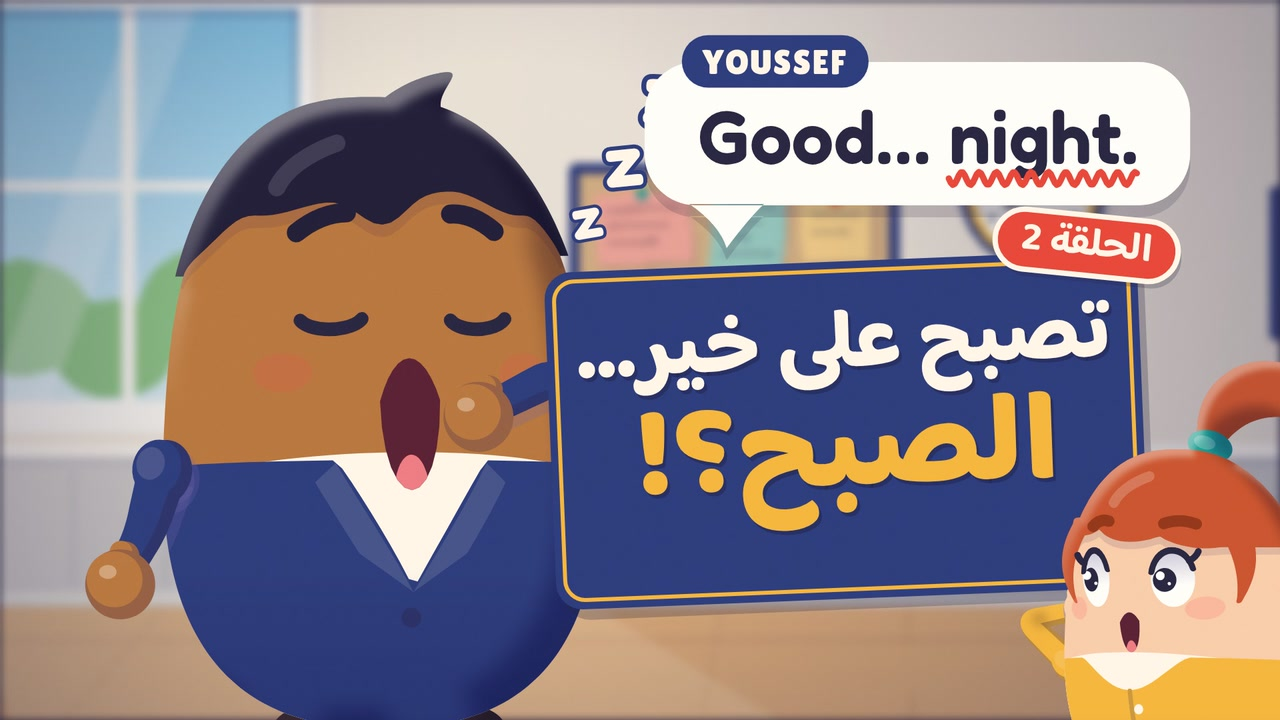
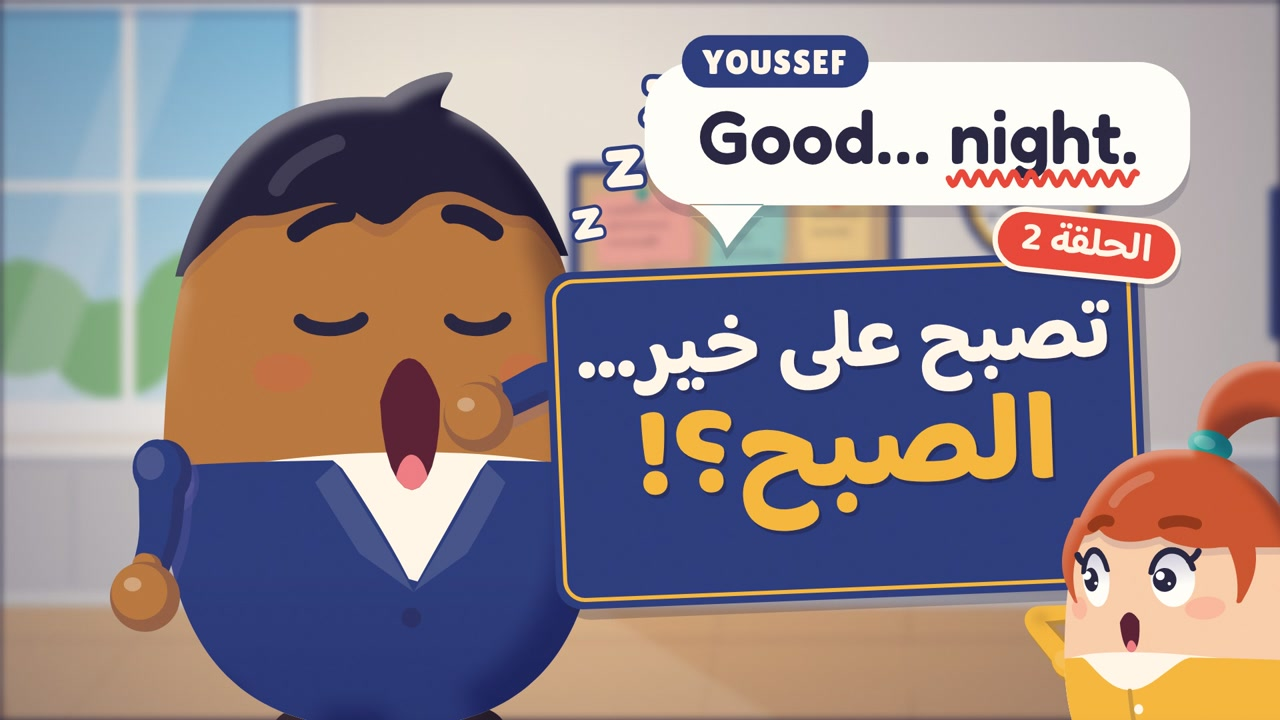
WIP: arm A3 rework in progress
Claude-Session: https://claude.ai/code/session_01Ey97nqMLT4oVRE1erYCZ22

Changed region(s): [[0.0625, 0.6722, 0.1562, 0.8861], [0.7812, 0.8556, 0.8438, 0.8861]]

diff --git a/production/ep01-first-day/bean.js b/production/ep01-first-day/bean.js
@@ -81,7 +81,8 @@ export const ARMCFG = {
 };
 // A2 pose extras: bend = minimum elbow bend (degrees), elv = elbow side hint in (outward, down), front = drawn in front of the body
 const X2 = {
-  rest: { bend: 12, elv: [-.4, 1], flex: 0 },     // owner's review: at rest the elbow bends ~12° only, tucked in, the arm hangs close to the body out: { bend: 30, elv: [1, .6], flex: .6 }, wave: { bend: 55, elv: [1, 1], flex: 1 },
+  rest: { bend: 14, elv: [-1, .35], flex: 0 },    // owner's review: at rest the upper arm hangs near-vertical from the cap, the elbow sits low and points
+                                                   // down/slightly back (into the body, never up-out), the forearm continues down with a small natural bend out: { bend: 30, elv: [1, .6], flex: .6 }, wave: { bend: 55, elv: [1, 1], flex: 1 },
   up: { bend: 35, elv: [1, .4], flex: 1 }, chest: { bend: 45, elv: [.2, 1], flex: .8, front: true },   // the hand on the chest is drawn in front even from the far shoulder scratch: { dx: -.02, dy: -.4, bend: 60, elv: [1, -.5], flex: 1 },
   shrug: { bend: 45, elv: [1, .8], flex: 1 }, hip: { bend: 60, elv: [1, .2], flex: 1 },
   hold: { dx: -.03, dy: .05, bend: 70, elv: [1, 1], flex: 1, front: true },   // elbows at the body, forearms up across the chest
@@ -93,7 +94,7 @@ export const ARM = {};
 // v3 poses: hand target from the shoulder (dx outward, dy down, fractions of H); el = elbow side override (+1 outward / -1);
 // app = the direction the forearm arrives from, for the bendy arm (B); the v2 poses are reused when a v3 one is missing
 export const ARM3 = {
-  rest:    { dx: .07, dy: .18, w: 0, app: [.2, 1], flex: .25 },   // along the body, a slight bend
+  rest:    { dx: .03, dy: .2, w: 0, app: [.2, 1], flex: .25 },    // hanging ≤ 15° from vertical, the hand resting beside the hip
   out:     { dx: .17, dy: .08, w: 0, app: [.4, 1], flex: .5 },
   wave:    { dx: .17, dy: -.21, w: 1, app: [.15, -1], flex: 1 },
   up:      { dx: .1, dy: -.3, w: 0, app: [.2, -1], flex: .8 },
@@ -118,7 +119,7 @@ function armGeo3(sp, p, G) {
     const sx = G.hw(ys) * (cfg.x2 ? (far ? .95 * sg : (.72 + .28 * Math.abs(sn)) * sg) : .92 * sn);
     const S = G.D(sx, ys);
     let dx = A.dx * H * s, dy = A.dy * H;
-    if (far) { dx += s * (cfg.x2 ? .045 : .13) * H; if (cfg.x2) dy += .05 * H; }   // the far arm swings a little forward so its hand shows past the chest (and keeps hanging)
+    if (far) { dx += s * (cfg.x2 ? .03 : .13) * H; if (cfg.x2) dy += .06 * H; }   // the far arm hangs too, a touch forward so its hand peeks past the body edge
     if (A.w) { const ang = Math.sin(p.wave * 2 * PI) * .45 * A.w; const r = Math.hypot(dx, dy) * .35; dx += Math.sin(ang) * r * s; dy += (1 - Math.cos(ang)) * r * .5; }
     let T = [S[0] + dx, S[1] + dy];
     // reach: the two bones stretch up to `stretch`, then the hand is pulled in

diff --git a/production/ep02-good-morning/bean.js b/production/ep02-good-morning/bean.js
@@ -81,7 +81,8 @@ export const ARMCFG = {
 };
 // A2 pose extras: bend = minimum elbow bend (degrees), elv = elbow side hint in (outward, down), front = drawn in front of the body
 const X2 = {
-  rest: { bend: 12, elv: [-.4, 1], flex: 0 },     // owner's review: at rest the elbow bends ~12° only, tucked in, the arm hangs close to the body out: { bend: 30, elv: [1, .6], flex: .6 }, wave: { bend: 55, elv: [1, 1], flex: 1 },
+  rest: { bend: 14, elv: [-1, .35], flex: 0 },    // owner's review: at rest the upper arm hangs near-vertical from the cap, the elbow sits low and points
+                                                   // down/slightly back (into the body, never up-out), the forearm continues down with a small natural bend out: { bend: 30, elv: [1, .6], flex: .6 }, wave: { bend: 55, elv: [1, 1], flex: 1 },
   up: { bend: 35, elv: [1, .4], flex: 1 }, chest: { bend: 45, elv: [.2, 1], flex: .8, front: true },   // the hand on the chest is drawn in front even from the far shoulder scratch: { dx: -.02, dy: -.4, bend: 60, elv: [1, -.5], flex: 1 },
   shrug: { bend: 45, elv: [1, .8], flex: 1 }, hip: { bend: 60, elv: [1, .2], flex: 1 },
   hold: { dx: -.03, dy: .05, bend: 70, elv: [1, 1], flex: 1, front: true },   // elbows at the body, forearms up across the chest
@@ -93,7 +94,7 @@ export const ARM = {};
 // v3 poses: hand target from the shoulder (dx outward, dy down, fractions of H); el = elbow side override (+1 outward / -1);
 // app = the direction the forearm arrives from, for the bendy arm (B); the v2 poses are reused when a v3 one is missing
 export const ARM3 = {
-  rest:    { dx: .07, dy: .18, w: 0, app: [.2, 1], flex: .25 },   // along the body, a slight bend
+  rest:    { dx: .03, dy: .2, w: 0, app: [.2, 1], flex: .25 },    // hanging ≤ 15° from vertical, the hand resting beside the hip
   out:     { dx: .17, dy: .08, w: 0, app: [.4, 1], flex: .5 },
   wave:    { dx: .17, dy: -.21, w: 1, app: [.15, -1], flex: 1 },
   up:      { dx: .1, dy: -.3, w: 0, app: [.2, -1], flex: .8 },
@@ -118,7 +119,7 @@ function armGeo3(sp, p, G) {
     const sx = G.hw(ys) * (cfg.x2 ? (far ? .95 * sg : (.72 + .28 * Math.abs(sn)) * sg) : .92 * sn);
     const S = G.D(sx, ys);
     let dx = A.dx * H * s, dy = A.dy * H;
-    if (far) { dx += s * (cfg.x2 ? .045 : .13) * H; if (cfg.x2) dy += .05 * H; }   // the far arm swings a little forward so its hand shows past the chest (and keeps hanging)
+    if (far) { dx += s * (cfg.x2 ? .03 : .13) * H; if (cfg.x2) dy += .06 * H; }   // the far arm hangs too, a touch forward so its hand peeks past the body edge
     if (A.w) { const ang = Math.sin(p.wave * 2 * PI) * .45 * A.w; const r = Math.hypot(dx, dy) * .35; dx += Math.sin(ang) * r * s; dy += (1 - Math.cos(ang)) * r * .5; }
     let T = [S[0] + dx, S[1] + dy];
     // reach: the two bones stretch up to `stretch`, then the hand is pulled in

diff --git a/publish/thumbs/bean.js b/publish/thumbs/bean.js
@@ -81,7 +81,8 @@ export const ARMCFG = {
 };
 // A2 pose extras: bend = minimum elbow bend (degrees), elv = elbow side hint in (outward, down), front = drawn in front of the body
 const X2 = {
-  rest: { bend: 12, elv: [-.4, 1], flex: 0 },     // owner's review: at rest the elbow bends ~12° only, tucked in, the arm hangs close to the body out: { bend: 30, elv: [1, .6], flex: .6 }, wave: { bend: 55, elv: [1, 1], flex: 1 },
+  rest: { bend: 14, elv: [-1, .35], flex: 0 },    // owner's review: at rest the upper arm hangs near-vertical from the cap, the elbow sits low and points
+                                                   // down/slightly back (into the body, never up-out), the forearm continues down with a small natural bend out: { bend: 30, elv: [1, .6], flex: .6 }, wave: { bend: 55, elv: [1, 1], flex: 1 },
   up: { bend: 35, elv: [1, .4], flex: 1 }, chest: { bend: 45, elv: [.2, 1], flex: .8, front: true },   // the hand on the chest is drawn in front even from the far shoulder scratch: { dx: -.02, dy: -.4, bend: 60, elv: [1, -.5], flex: 1 },
   shrug: { bend: 45, elv: [1, .8], flex: 1 }, hip: { bend: 60, elv: [1, .2], flex: 1 },
   hold: { dx: -.03, dy: .05, bend: 70, elv: [1, 1], flex: 1, front: true },   // elbows at the body, forearms up across the chest
@@ -93,7 +94,7 @@ export const ARM = {};
 // v3 poses: hand target from the shoulder (dx outward, dy down, fractions of H); el = elbow side override (+1 outward / -1);
 // app = the direction the forearm arrives from, for the bendy arm (B); the v2 poses are reused when a v3 one is missing
 export const ARM3 = {
-  rest:    { dx: .07, dy: .18, w: 0, app: [.2, 1], flex: .25 },   // along the body, a slight bend
+  rest:    { dx: .03, dy: .2, w: 0, app: [.2, 1], flex: .25 },    // hanging ≤ 15° from vertical, the hand resting beside the hip
   out:     { dx: .17, dy: .08, w: 0, app: [.4, 1], flex: .5 },
   wave:    { dx: .17, dy: -.21, w: 1, app: [.15, -1], flex: 1 },
   up:      { dx: .1, dy: -.3, w: 0, app: [.2, -1], flex: .8 },
@@ -118,7 +119,7 @@ function armGeo3(sp, p, G) {
     const sx = G.hw(ys) * (cfg.x2 ? (far ? .95 * sg : (.72 + .28 * Math.abs(sn)) * sg) : .92 * sn);
     const S = G.D(sx, ys);
     let dx = A.dx * H * s, dy = A.dy * H;
-    if (far) { dx += s * (cfg.x2 ? .045 : .13) * H; if (cfg.x2) dy += .05 * H; }   // the far arm swings a little forward so its hand shows past the chest (and keeps hanging)
+    if (far) { dx += s * (cfg.x2 ? .03 : .13) * H; if (cfg.x2) dy += .06 * H; }   // the far arm hangs too, a touch forward so its hand peeks past the body edge
     if (A.w) { const ang = Math.sin(p.wave * 2 * PI) * .45 * A.w; const r = Math.hypot(dx, dy) * .35; dx += Math.sin(ang) * r * s; dy += (1 - Math.cos(ang)) * r * .5; }
     let T = [S[0] + dx, S[1] + dy];
     // reach: the two bones stretch up to `stretch`, then the hand is pulled in

diff --git a/production/ep02-good-morning/story.js b/production/ep02-good-morning/story.js
@@ -274,7 +274,7 @@ export function buildStory() {
   const tFormN = nwT('ar07', has('الاستمارة'), .7), tQ = nwT('ar07', has('سؤال'), .9), tWalking = nwT('ar07', has('ماشي'), .4), tComing = nwT('ar07', has('جاي'), .5);
   const yD = { id: 'youssef', base: { turn: .55, face: F('happy', { happy: .35, lid: .1, lx: .55 }), armL: ARM.rest, armR: ARM.door, kmul: 1 }, blinks: [], jumps: [],
     moves: [{ t0: -1, t1: -.9, x0: 1400, x1: 1400, k0: .9, k1: .9 }], keys: [] };
-  const BAGARM = { dx: .05, dy: .06, w: 0, bend: 18, elv: [1, .8], flex: .2 }, RESTF = { ...ARM.rest, front: true }, OHUP = { ...ARM.up, front: true };
+  const BAGARM = { dx: .03, dy: .16, w: 0, bend: 14, elv: [-1, .35], flex: 0 }, RESTF = { ...ARM.rest, front: true }, OHUP = { ...ARM.up, front: true };
   const mD = { id: 'mia', base: { turn: 0, face: F('happy', { lx: .1, lid: .1 }), armL: RESTF, armR: BAGARM, alpha: 0, clip: 1, kmul: 1 }, blinks: [], jumps: [],
     moves: [{ t0: tOutM, t1: Math.min(D0.t0 + .1, tOutM + .9), x0: 1530, x1: 1640, y0: 800, y1: GROUND, k0: .6, k1: .9, step: .42 }], keys: [] };
   const DK = yD.keys, EK = mD.keys;
